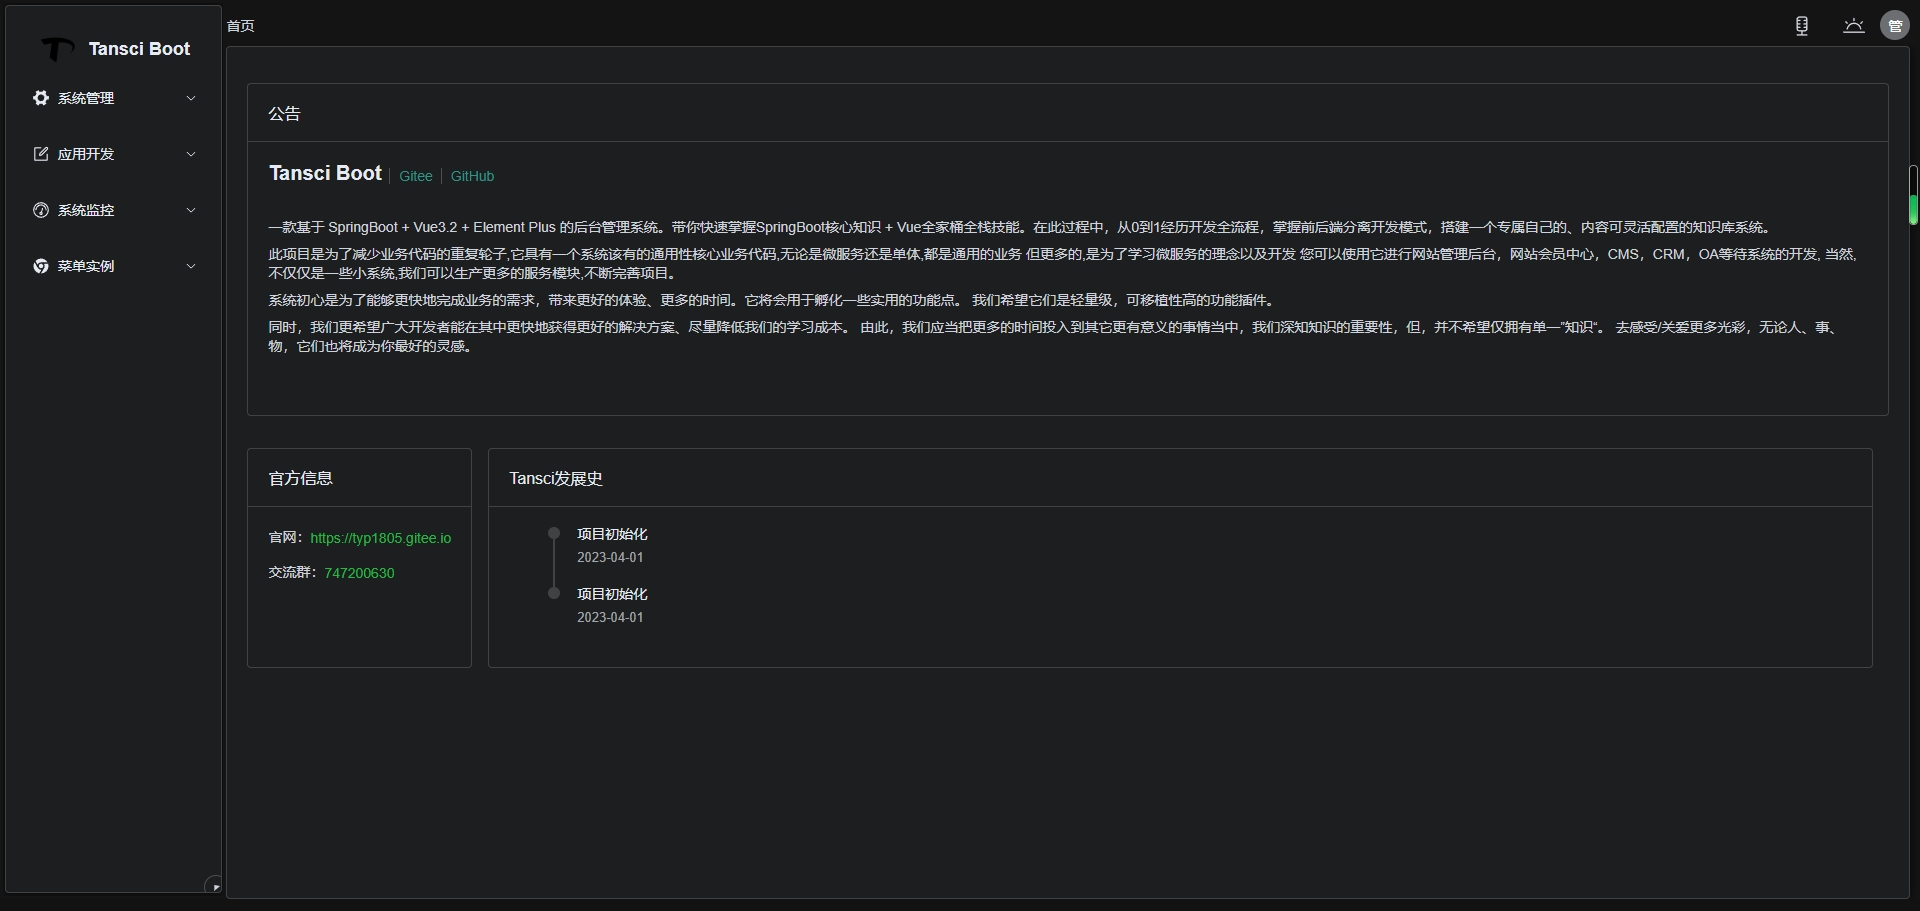
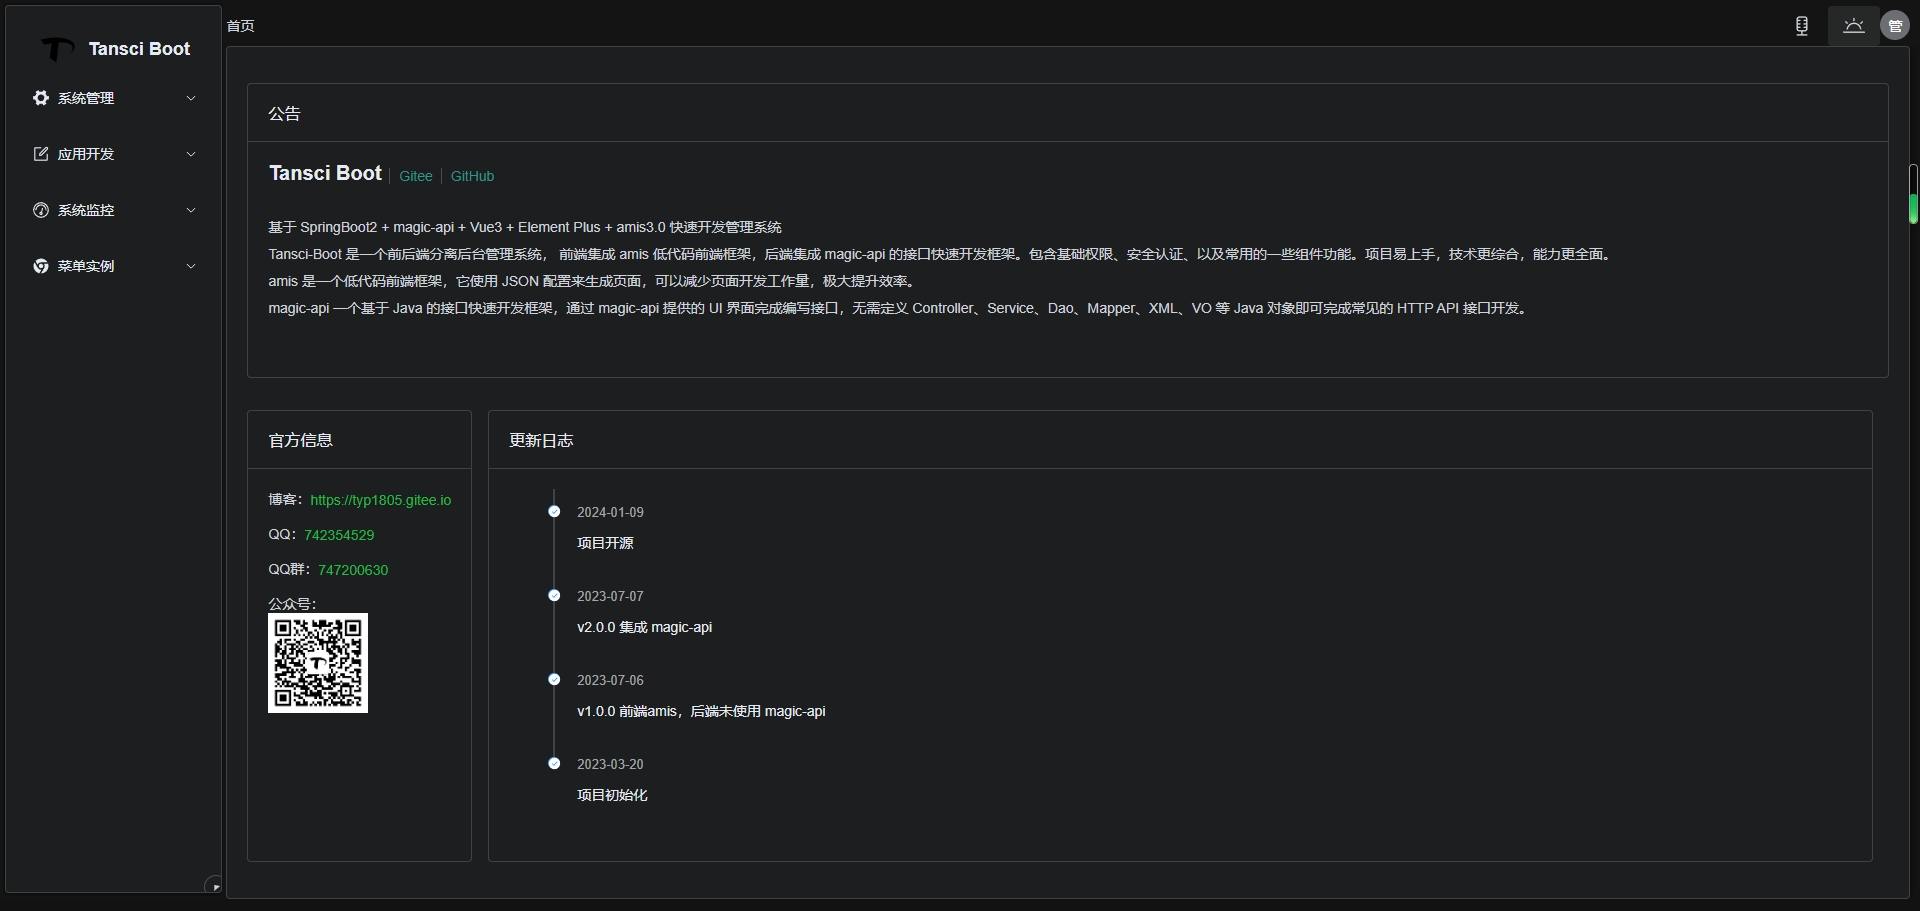
更新

diff --git a/tansci-boot-ui/src/views/Index.vue b/tansci-boot-ui/src/views/Index.vue
@@ -1,6 +1,7 @@
 <script setup lang="ts">
   import { reactive, onMounted } from "vue"
 
+  const gzh = new URL('../assets/image/gzh.jpg', import.meta.url).href
   const state = reactive({
     versionList: [
       {timestamp:'2024-01-11', icon:'CircleCloseFilled', color:'#F56C6C', content: [
@@ -50,28 +51,38 @@
         </template>
         <div>
           <div>
-            <el-text>官网：</el-text>
+            <el-text>博客：</el-text>
             <el-link type="success" href="https://typ1805.gitee.io" target="_blank">https://typ1805.gitee.io</el-link>
           </div>
           <div style="padding-top: 1rem;">
-            <el-text>交流群：</el-text>
+            <el-text>QQ：</el-text>
+            <el-link type="success">742354529</el-link>
+          </div>
+          <div style="padding-top: 1rem;">
+            <el-text>QQ群：</el-text>
             <el-link type="success">747200630</el-link>
+          </div>
+          <div style="padding-top: 1rem;">
+            <el-text>公众号：</el-text><br>
+            <el-image style="width: 100px; height: 100px" :src="gzh" fit="fit" />
           </div>
         </div>
       </el-card>
       <el-card shadow="never" style="flex: 1;">
         <template #header>
-          <span>Tansci发展史</span>
+          <span>更新日志</span>
         </template>
         <div>
-          <el-timeline>
-            <el-timeline-item v-for="item in state.versionList" :key="item" :color="item.color" :icon="item.icon" :timestamp="item.timestamp" placement="top">
-              <el-card v-if="item.content.length > 1">
-                <p v-for="c in item.content" :key="c">{{ c }}</p>
-              </el-card>
-              <p v-else>{{ item.content[0] }}</p>
-            </el-timeline-item>
-          </el-timeline>
+          <el-scrollbar max-height="22rem">
+            <el-timeline>
+              <el-timeline-item v-for="item in state.versionList" :key="item" :color="item.color" :icon="item.icon" :timestamp="item.timestamp" placement="top">
+                <el-card v-if="item.content.length > 1">
+                  <p v-for="c in item.content" :key="c">{{ c }}</p>
+                </el-card>
+                <p v-else>{{ item.content[0] }}</p>
+              </el-timeline-item>
+            </el-timeline>
+          </el-scrollbar>
         </div>
       </el-card>
     </div>

diff --git a/tansci-boot-ui/src/views/common/Login.vue b/tansci-boot-ui/src/views/common/Login.vue
@@ -8,7 +8,7 @@
 	const loginFormRef = ref<FormInstance>() 
 	
 	const logo = new URL('../../assets/image/logo.png', import.meta.url).href
-	const loginLogo = new URL('../../assets/image/login-left.gif', import.meta.url).href
+	const loginLogo = new URL('../../assets/image/login-left.png', import.meta.url).href
 	const codeImg = ref()
 
 	const state = reactive({
@@ -113,7 +113,9 @@
 			<div>
 				<el-link href="https://typ1805.gitee.io" target="_blank">关于作者</el-link>
 				<el-divider direction="vertical" />
-				<el-link href="https://gitee.com/typ1805/tansci-boot" target="_blank">源码地址 Gitee & GitHub</el-link>
+				<el-text size="small">源码地址</el-text>
+				<el-link href="https://gitee.com/typ1805/tansci-boot" target="_blank" style="padding:0 0.6rem">Gitee</el-link>
+				<el-link href="https://github.com/typ1805/tansci-boot" target="_blank">GitHub</el-link>
 				<el-divider direction="vertical" />
 				<el-link href="https://typ1805.gitee.io" target="_blank">联系作者</el-link>
 			</div>
@@ -154,7 +156,7 @@
 				justify-content: center;
 				align-items: center;
 				.logo{
-					width: 36rem;
+					width: 26rem;
 					padding-right: 2rem;
 					// transition: all .2s;
 				}
